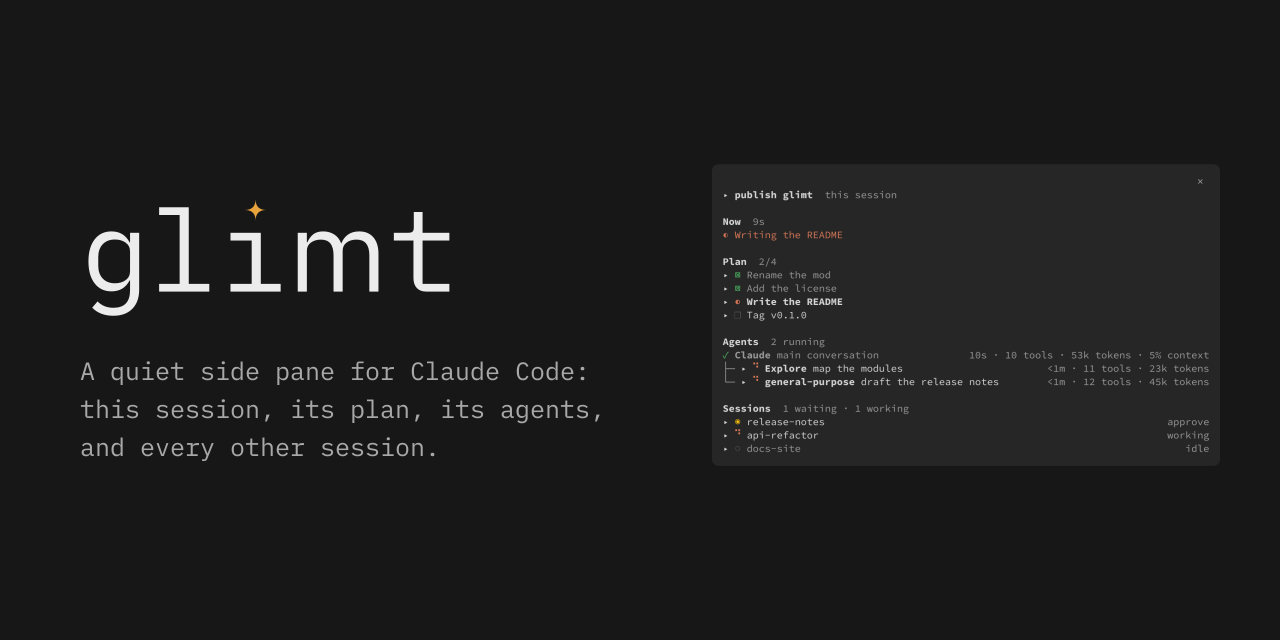
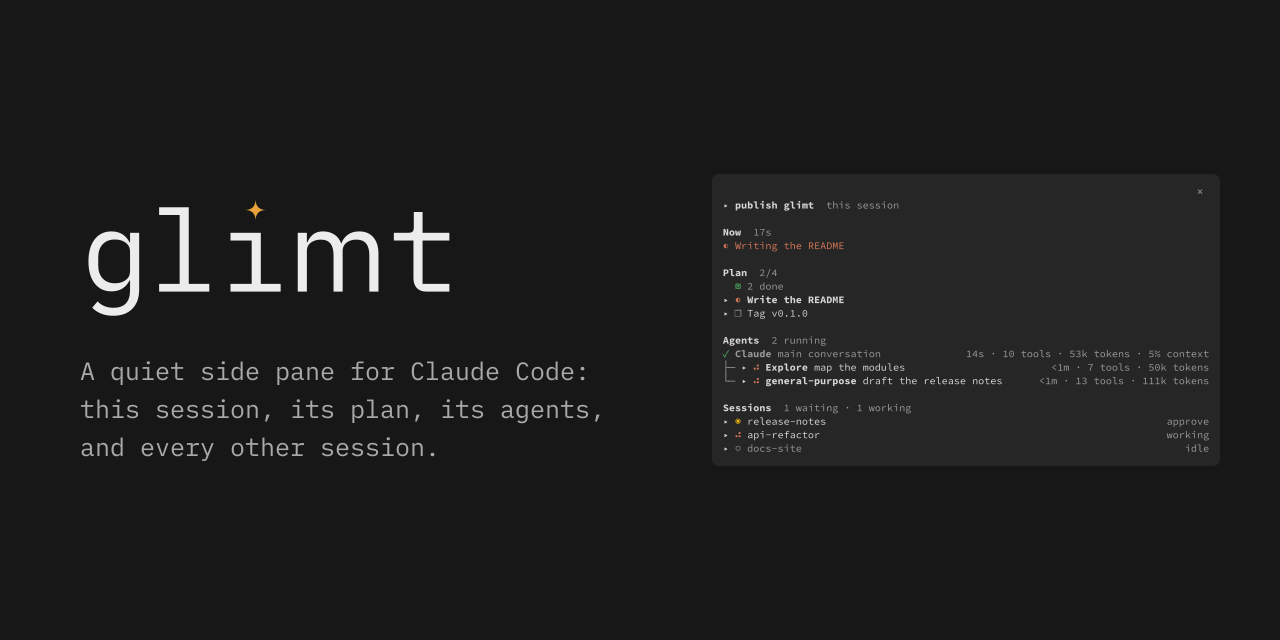
README: screenshot and social preview of glimt 0.8.0
Retaken from a live run: the plan's finished steps folded, both agents
at work, and the lighter gray of a step to do and an idle session
since 0.6.0. The social preview carries the same pane.

diff --git a/README.md b/README.md
@@ -13,7 +13,7 @@ _glimt_ is Danish for a glimpse, a brief flash of light. Say it like _glimpse_ w
 
 Its icon says what it does: a calm board of everything at a glance; one lamp lights when something needs you.
 
-![glimt beside a session: this session, Now, the plan with its steps, two agents at work, and three other sessions, one waiting for approval](docs/screenshot.png)
+![glimt beside a session: this session, Now, the plan with its finished steps folded, two agents at work, and three other sessions, one waiting for approval](docs/screenshot.png)
 
 ## Install
 
